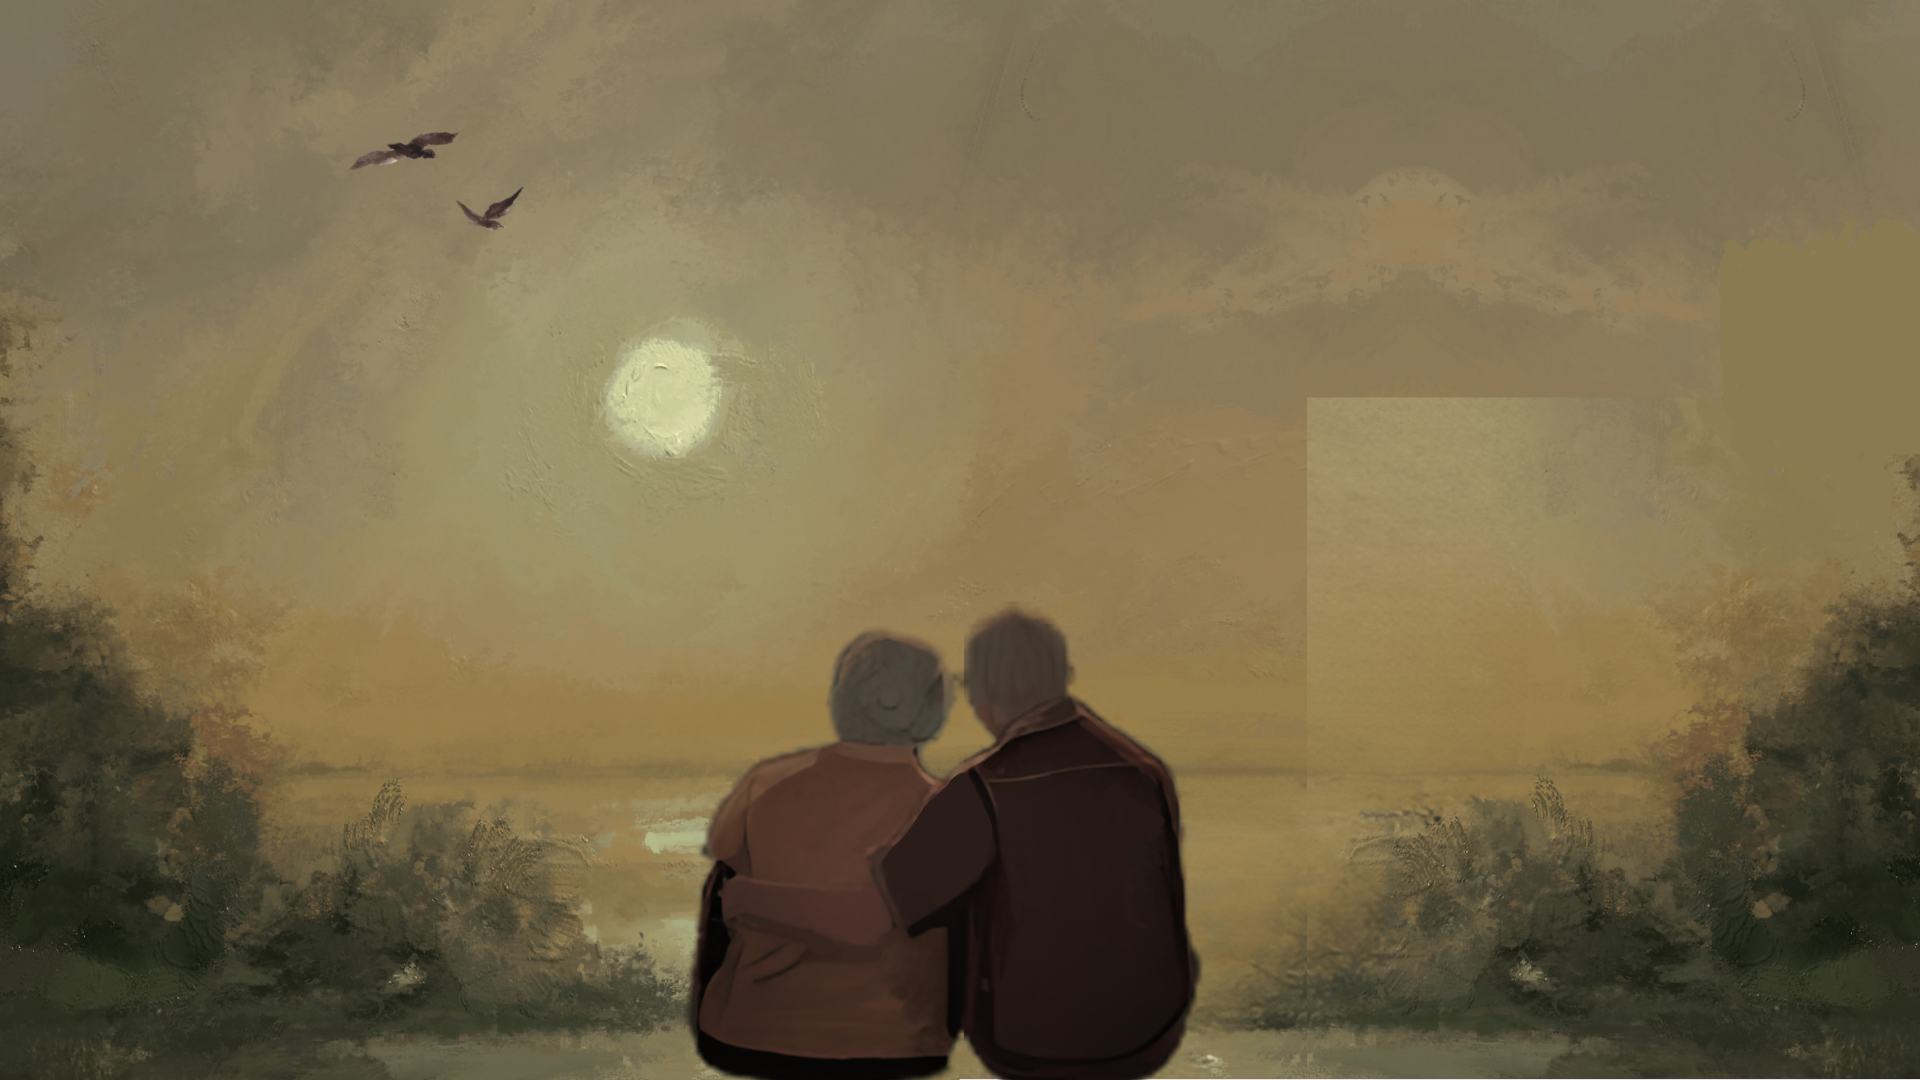
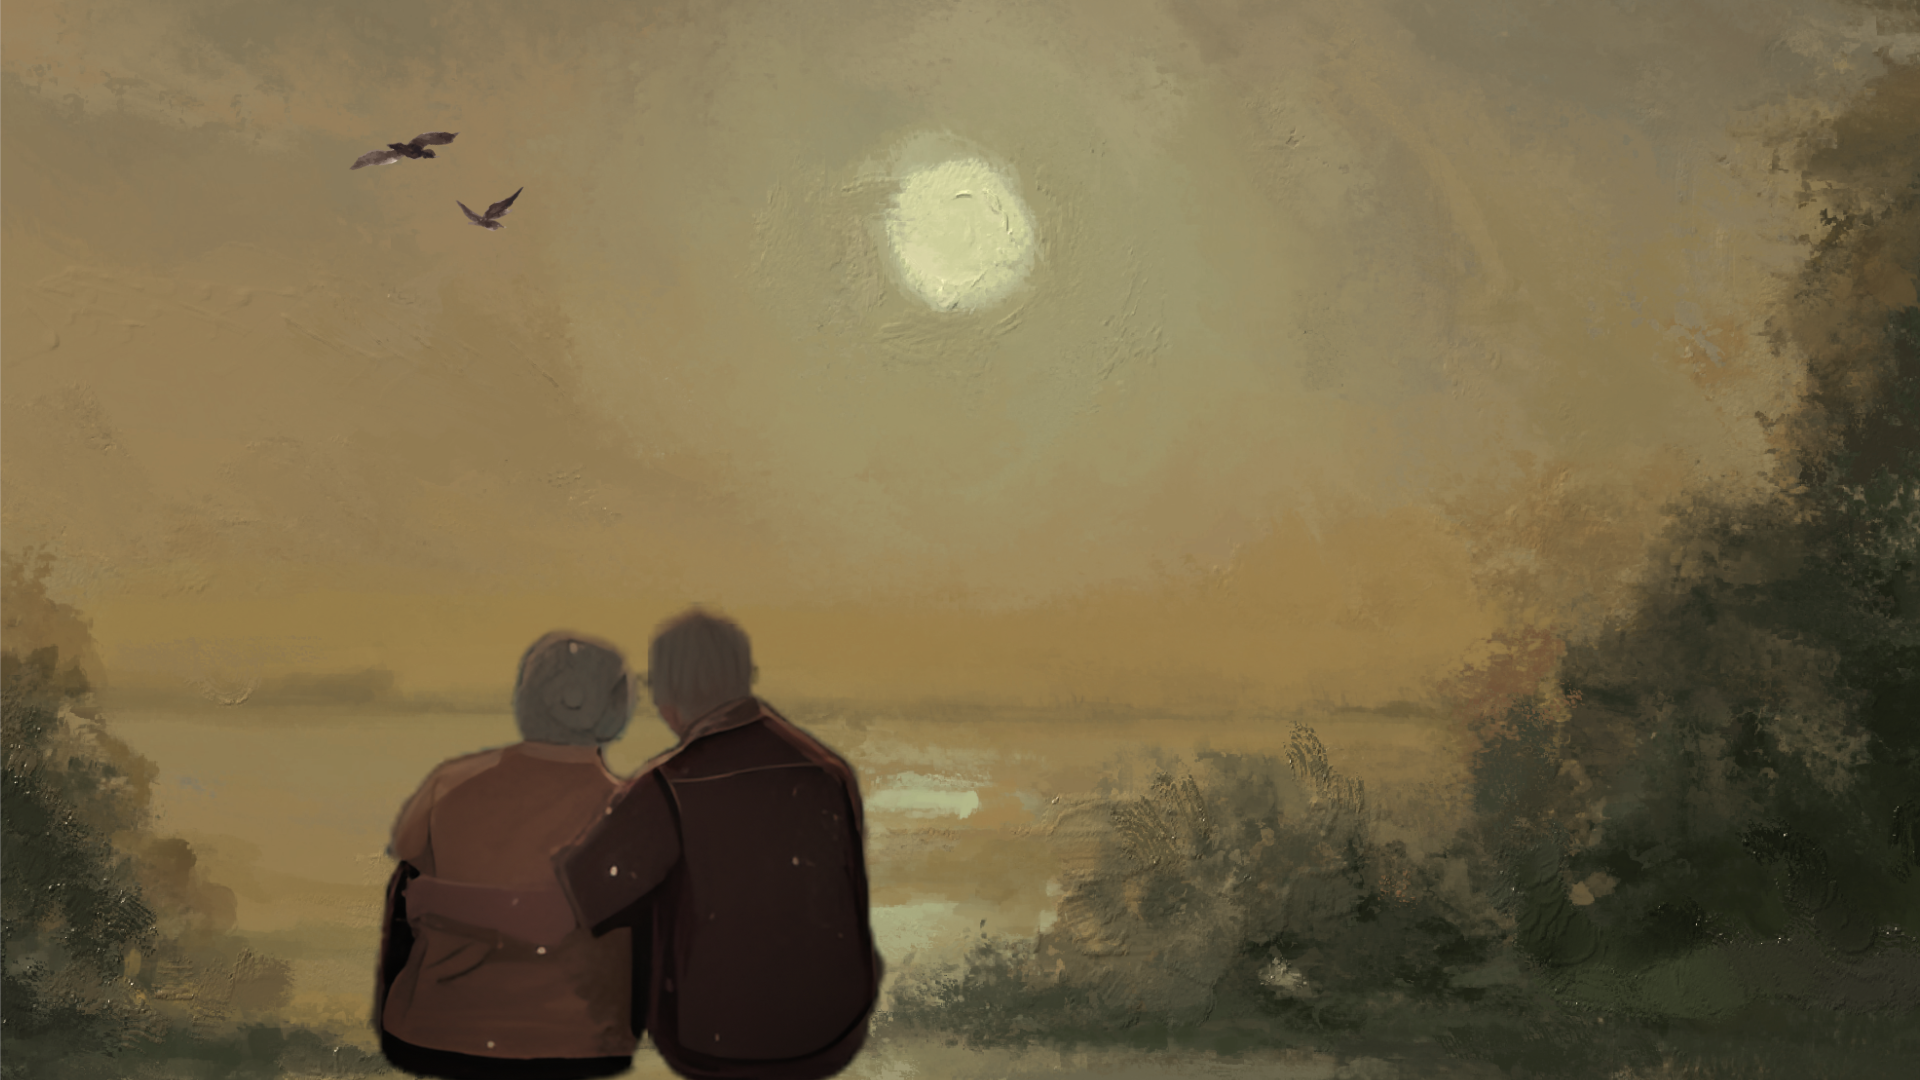
mengubah gambar bg menjadi fleksibel mengikuti besaran scene dan mengganti gambar 1

diff --git a/src/main/java/org/example/demo/Dashboard.java b/src/main/java/org/example/demo/Dashboard.java
@@ -16,7 +16,11 @@ import javafx.scene.shape.Circle;
 import javafx.scene.text.Font;
 import javafx.stage.Popup;
 import javafx.stage.Stage;
+import javafx.stage.Screen;
+import javafx.geometry.Rectangle2D;
+
 import org.example.demo.Database.Book;
+
 
 import java.util.ArrayList;
 import java.util.List;
@@ -31,11 +35,17 @@ public class Dashboard extends Application {
 
         Image backgroundImage = new Image("file:src/main/java/org/example/demo/Image/bg1.png");
         ImageView backgroundView = new ImageView(backgroundImage);
+        backgroundView.setPreserveRatio(false); // Tidak mempertahankan rasio aspek
+
         root.getChildren().add(backgroundView);
 
-        // Sesuaikan dengan lebar yang diinginkan
-        backgroundView.setFitWidth(800);
-        backgroundView.setFitHeight(600);
+        // Listener untuk menyesuaikan ukuran background ketika ukuran scene berubah
+        root.widthProperty().addListener((obs, oldVal, newVal) -> {
+            backgroundView.setFitWidth(newVal.doubleValue());
+        });
+        root.heightProperty().addListener((obs, oldVal, newVal) -> {
+            backgroundView.setFitHeight(newVal.doubleValue());
+        });
 
         // Top section
         HBox topSection = new HBox();
@@ -248,7 +258,14 @@ public class Dashboard extends Application {
         root.setTop(topSection);
         root.setCenter(centerSection);
 
-        Scene scene = new Scene(root, 800, 600);
+        // Mengambil ukuran layar utama
+        Rectangle2D screenBounds = Screen.getPrimary().getVisualBounds();
+        primaryStage.setX(screenBounds.getMinX());
+        primaryStage.setY(screenBounds.getMinY());
+        primaryStage.setWidth(screenBounds.getWidth());
+        primaryStage.setHeight(screenBounds.getHeight());
+
+        Scene scene = new Scene(root, screenBounds.getWidth(), screenBounds.getHeight());
         primaryStage.setTitle("Perpustakaanku");
         primaryStage.setScene(scene);
         primaryStage.show();
@@ -270,7 +287,6 @@ public class Dashboard extends Application {
             }
         });
     }
-
 
     private List<Book> loadBooks() {
         // Mock data, replace with actual book data from database
